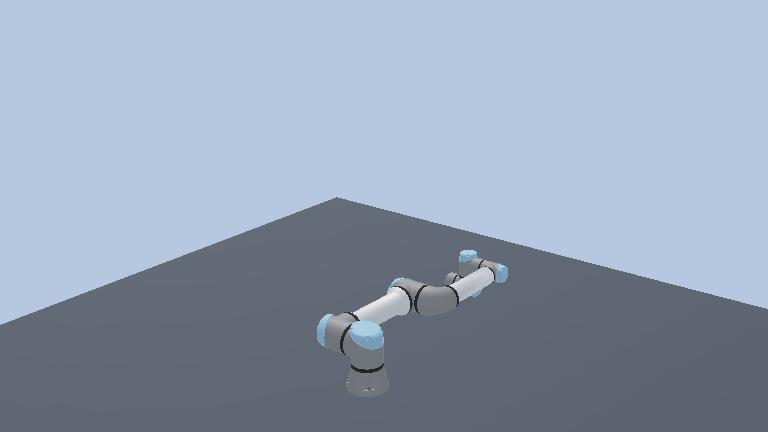
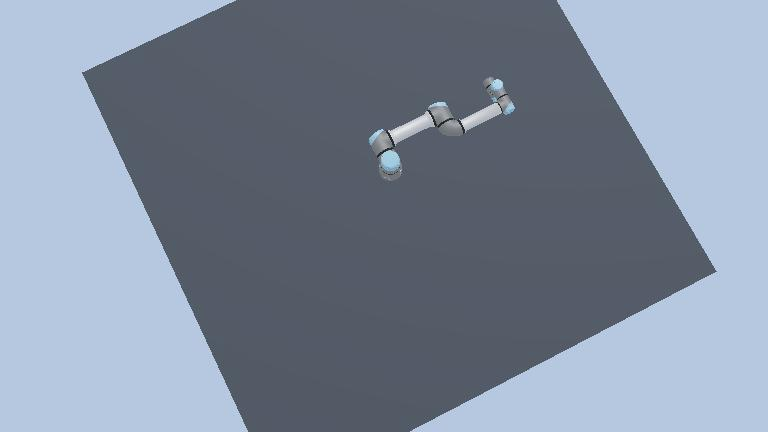
Update UR5e world files and controllers for improved visibility and functionality

diff --git a/lab01_webots_ur5e_frames/controllers/lab01_controller/ur5e_devices.py b/lab01_webots_ur5e_frames/controllers/lab01_controller/ur5e_devices.py
@@ -1,0 +1,44 @@
+"""Thin Webots device adapter; course algorithms belong outside this module."""
+import numpy as np
+
+JOINT_NAMES = (
+    "shoulder_pan_joint", "shoulder_lift_joint", "elbow_joint",
+    "wrist_1_joint", "wrist_2_joint", "wrist_3_joint",
+)
+
+class UR5eDevices:
+    """Expose ordered motors and sensors without supplying robotics algorithms."""
+    def __init__(self, robot):
+        self.robot = robot
+        self.time_step = int(robot.getBasicTimeStep())
+        self.motors = [robot.getDevice(name) for name in JOINT_NAMES]
+        self.sensors = [robot.getDevice(f"{name}_sensor") for name in JOINT_NAMES]
+        for sensor in self.sensors:
+            sensor.enable(self.time_step)
+        devices = {
+            robot.getDeviceByIndex(i).getName(): robot.getDeviceByIndex(i)
+            for i in range(robot.getNumberOfDevices())
+        }
+        self.tool_position = devices.get("tool_position")
+        self.tool_orientation = devices.get("tool_orientation")
+        if self.tool_position:
+            self.tool_position.enable(self.time_step)
+        if self.tool_orientation:
+            self.tool_orientation.enable(self.time_step)
+
+    def positions(self):
+        return np.array([sensor.getValue() for sensor in self.sensors], dtype=float)
+
+    def command_positions(self, q):
+        q = np.asarray(q, dtype=float)
+        if q.shape != (6,) or not np.all(np.isfinite(q)):
+            raise ValueError("Expected six finite joint positions")
+        for motor, target in zip(self.motors, q):
+            motor.setPosition(float(target))
+
+    def measured_tool_pose(self):
+        """Return optional ground truth for validation, never for solving FK or IK."""
+        if not self.tool_position or not self.tool_orientation:
+            return None, None
+        return (np.array(self.tool_position.getValues(), dtype=float),
+                np.array(self.tool_orientation.getRollPitchYaw(), dtype=float))

diff --git a/webots/controllers/eel4664_ur5e/eel4664_ur5e.py b/webots/controllers/eel4664_ur5e/eel4664_ur5e.py
@@ -14,8 +14,9 @@ arm = UR5eDevices(robot)
 if robot.step(arm.time_step) == -1:
     raise SystemExit
 q0 = arm.positions()
-q_goal = np.array([0.0, -1.20, 1.20, -1.50, -1.57, 0.0])
-duration = 8.0
+q_goal = q0.copy()
+q_goal[0] += 0.10
+duration = 4.0
 t0 = robot.getTime()
 print("Joint order:", ", ".join(JOINT_NAMES))
 print("Initial q [rad]:", np.array2string(q0, precision=4))

diff --git a/lab01_webots_ur5e_frames/README.md b/lab01_webots_ur5e_frames/README.md
@@ -149,7 +149,7 @@ The second command only checks that the required `UR5e.proto` model file now exi
 2. Select **File -> Open World...**.
 3. Open `C:\eel4664-robotics-labs\lab01_webots_ur5e_frames\worlds\lab01_starter.wbt`.
 4. Confirm the Scene Tree contains `WorldInfo`, `Viewpoint`, a floor `Solid`, and `UR5e "UR5E"`.
-5. Confirm the robot and floor render in the 3-D view.
+5. Confirm the complete robot and surrounding floor are visible immediately in the 3-D view; no initial zoom or rotation should be necessary.
 6. Select `UR5e "UR5E"` and verify its `controller` field is `void`.
 
 If the Console reports a skipped UR5e, missing PROTO, or fallback URL error, stop and repeat Step 2.
@@ -169,7 +169,9 @@ If that name already contains work you need, choose `lab01_work_yourname.wbt`. N
 2. Press **Reset**.
 3. Run for about two seconds, then pause.
 
-Pass: Webots stays open, the robot remains visible, and no controller error appears. Failure here indicates a world, asset, or rendering problem.
+**No robot movement is expected in this step.** The `void` controller sends no motor commands.
+
+Pass: Webots stays open, the stationary robot remains visible, and no controller error appears. Failure here indicates a world, asset, or rendering problem.
 
 ### Step 6 - Run the minimal controller
 
@@ -177,6 +179,8 @@ Pass: Webots stays open, the robot remains visible, and no controller error appe
 2. Select the UR5e and double-click its `controller` field.
 3. Choose `diagnostic_minimal`.
 4. Reset and run.
+
+**No robot movement is expected in this step.** The minimal controller only starts Python and advances ten simulation steps; it does not command any joints.
 
 Expected Console text includes:
 
@@ -195,6 +199,8 @@ If the controller is unavailable, confirm the working world is in the Lab 1 `wor
 3. Reset and run.
 4. Copy the device inventory into your notes.
 
+**No robot movement is expected in this step.** The device diagnostic reads names and device types only; it does not command any joints.
+
 Confirm all six motors and six corresponding `_sensor` names. Also confirm `tool_position`, `tool_orientation`, and `tool_test_point_position`.
 
 Pass: the Console ends with `[DIAGNOSTIC PASS] all device handles enumerated`. If the tool devices are absent, preserve needed work, reopen the current starter, and create a new work copy.
@@ -212,7 +218,7 @@ If `lab01_controller` already exists, do not copy again. Open `lab01_controller.
 
 ### Step 9 - Run the one-joint checkpoint
 
-Immediately after `q0` is measured in `lab01_controller.py`, use:
+Immediately after `q0` is measured, confirm that the provided `lab01_controller.py` contains:
 
 ```python
 q_goal = q0.copy()
@@ -220,7 +226,7 @@ q_goal[0] += 0.10
 duration = 4.0
 ```
 
-This commands +0.10 rad at the shoulder-pan joint while holding the other five targets.
+This commands +0.10 rad at the shoulder-pan joint while holding the other five targets at their measured starting positions. Do not substitute a full six-joint target during this checkpoint; multi-joint targets are introduced later.
 
 1. Save the file and open `lab01_work.wbt`.
 2. Assign `lab01_controller`.
